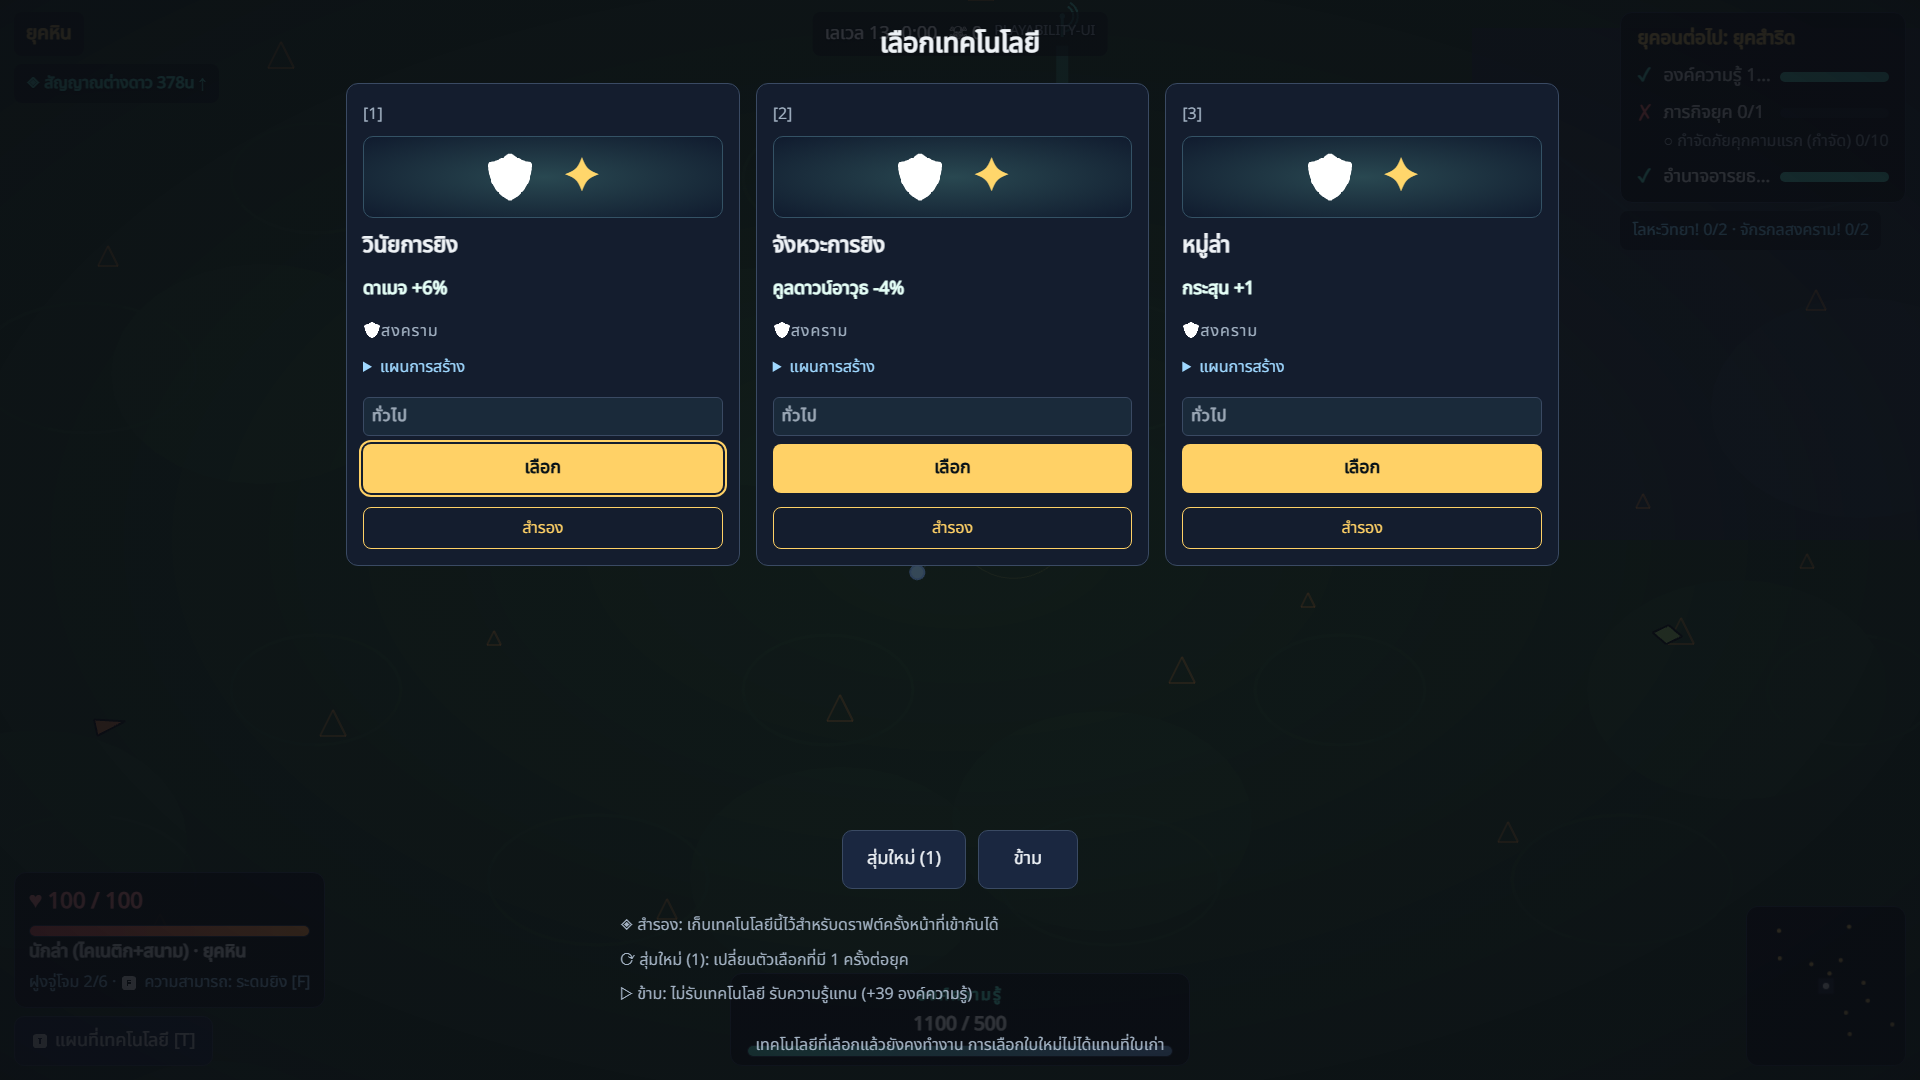
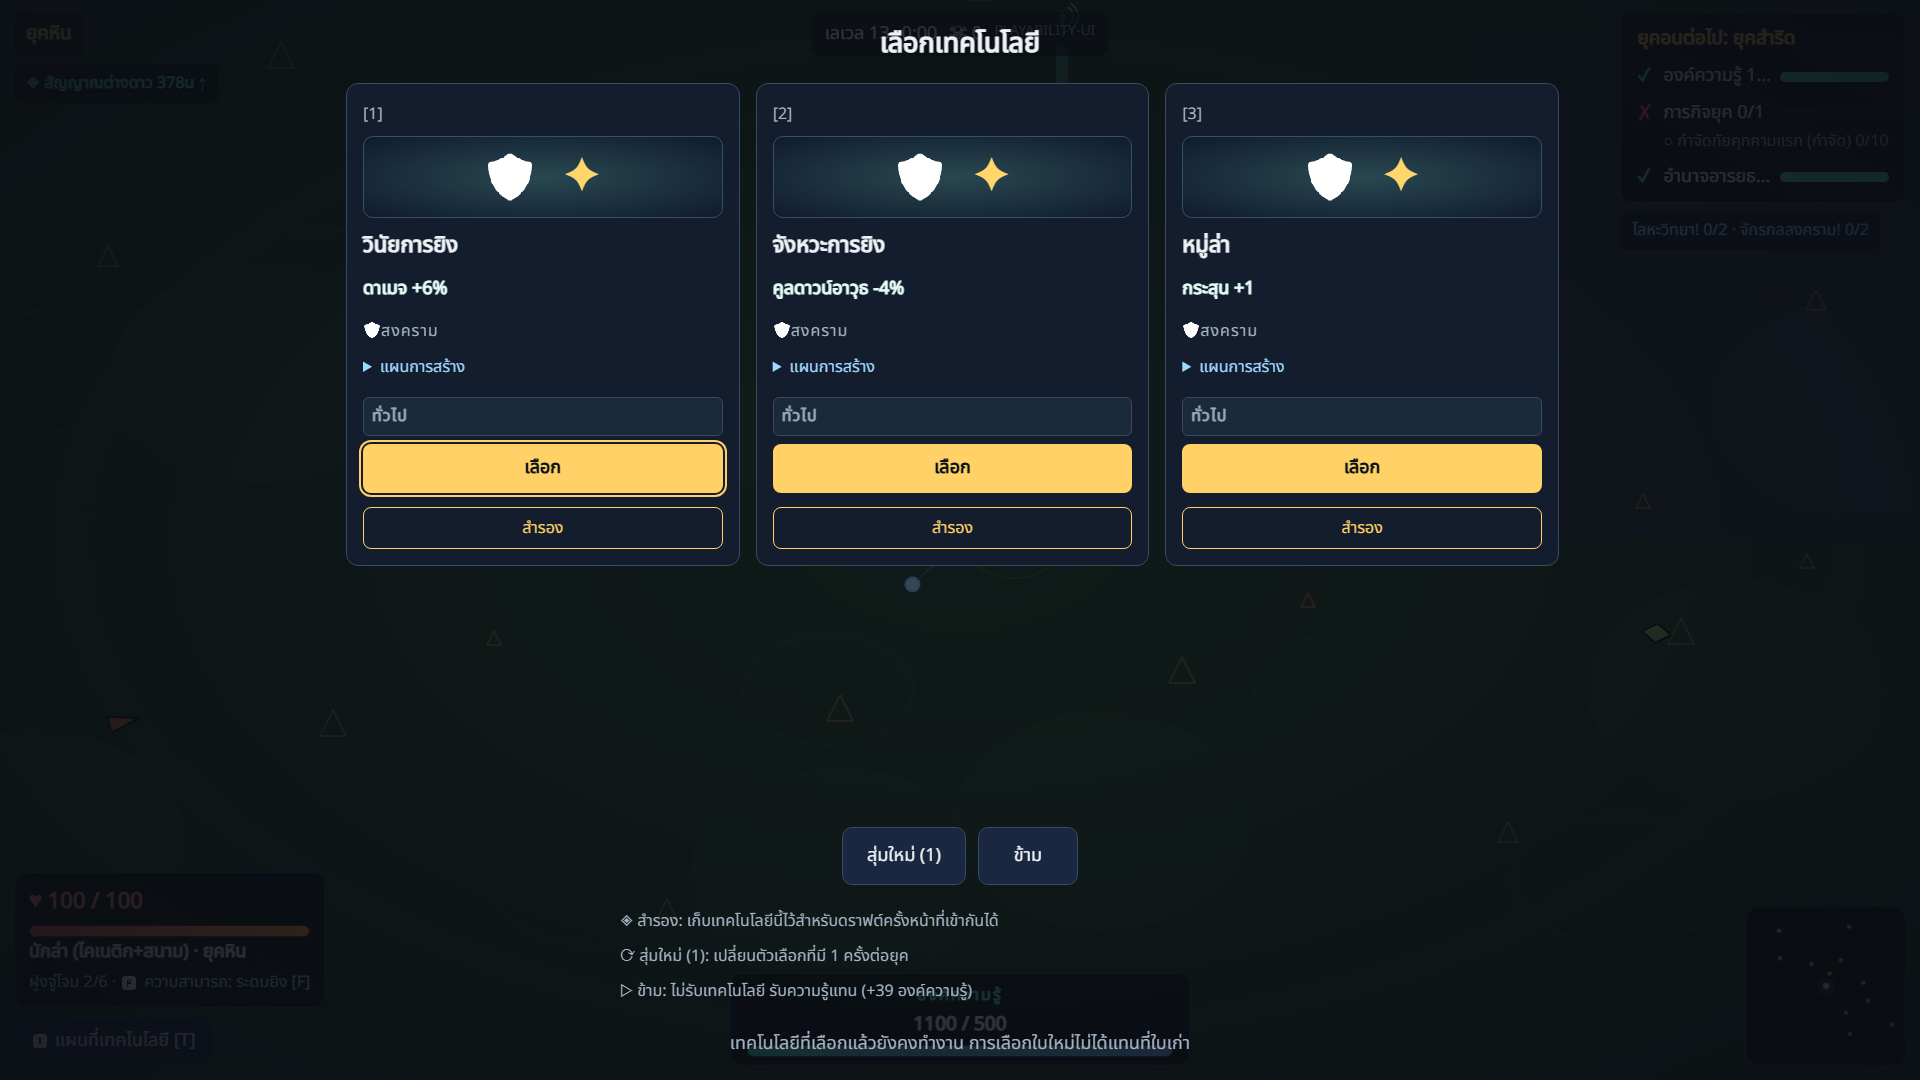
Preserve draft instruction readability contract
Restore 18px body sizing for the persistent technology instruction. Keep the existing acceptance assertion, record the CI finding, and refresh inspected Thai screenshot evidence.

Changed region(s): [[0.3125, 0.7639, 0.625, 0.9778], [0.4688, 0.5194, 0.5, 0.55]]

diff --git a/src/styles.css b/src/styles.css
@@ -663,7 +663,8 @@ button, input { font-family: inherit; }
 #draft-screen .card-plan summary:focus-visible { outline: 2px solid var(--accent); }
 #draft-screen .draft-agency { flex: 0 0 auto; display: flex; flex-wrap: wrap; justify-content: center; gap: 12px; }
 #draft-screen .draft-hints { width: min(100%, 1240px); display: flex; flex-wrap: wrap; justify-content: center; gap: 6px 20px; }
-#draft-screen .draft-hint, #draft-screen .draft-stays { font-size: var(--font-caption); line-height: 1.8; }
+#draft-screen .draft-hint { font-size: var(--font-caption); line-height: 1.8; }
+#draft-screen .draft-stays { font-size: var(--font-body); line-height: 1.8; }
 #ui #pause-screen .pause-panel {
   width: min(100%, 1120px); max-height: calc(100dvh - 40px); box-sizing: border-box;
   display: grid; grid-template-columns: repeat(2, minmax(0, 1fr)); gap: 12px 28px;

diff --git a/SESSION_HANDOFF.md b/SESSION_HANDOFF.md
@@ -181,3 +181,6 @@ Browser second pass: 10/11 passed, including the corrected snapshot and both mob
 Final local acceptance: source TypeScript and production build PASS. Browser coverage completed through focused reruns: desktop EN/TH pause/draft, Thai 200%, full-logistics reallocation, terminal-reroll/map focus, mobile EN/TH actual visible graph, radial EN/TH. Existing Later/Esc/FIFO/Signal and pan/zoom/pin regressions passed earlier; final unfiltered browser suite is a CI gate. Screenshots inspected and hashed separately as synthetic evidence. Precommit ZIP/release:verify passed all 17 artifact checks (46 files, 2.6 MB extracted). After commit, rebuild/package clean HEAD and verify its exact-SHA CI 4/4 before the next human run.
 
 Delivery boundary: initial local unfiltered check was NOT green; corrected focused unit cases and Analyze passed. Final unfiltered check runs on both Node 22 and 24 in GitHub CI. The final task response/Actions run and ignored scratch/playability-delivery-receipt.json record delivery SHA/CI/artifact evidence; fetch and verify rather than infer a live CI result from this precommit handoff. Human fun/replay and hardware frame-time budget remain unvalidated. Rollback source reference: d3814a6b7e94182a05be66e341eb36c0914eabc0 (content 8); no main merge/tag/v0.27.
+
+Exact-SHA CI e470d710fc4ca4927096805c71d1c103a999fe7a run 38130807280: verify Node 22/24 and Analyze passed; full browser suite had 56 passed, one pre-existing skip, one failure in the retained readability contract. The persistent-draft instruction was 16px; corrected to body text (18px at 100%) without changing the assertion or reducing Thai line-height. Revalidate affected readability/desktop cases, commit normally and require all four jobs at the new SHA.
+Local readability retest passed 1/1; desktop EN/TH retest passed 2/2 after the 18px correction. Updated Thai draft evidence/hash. All gameplay and tests are unchanged in this final corrective commit.
